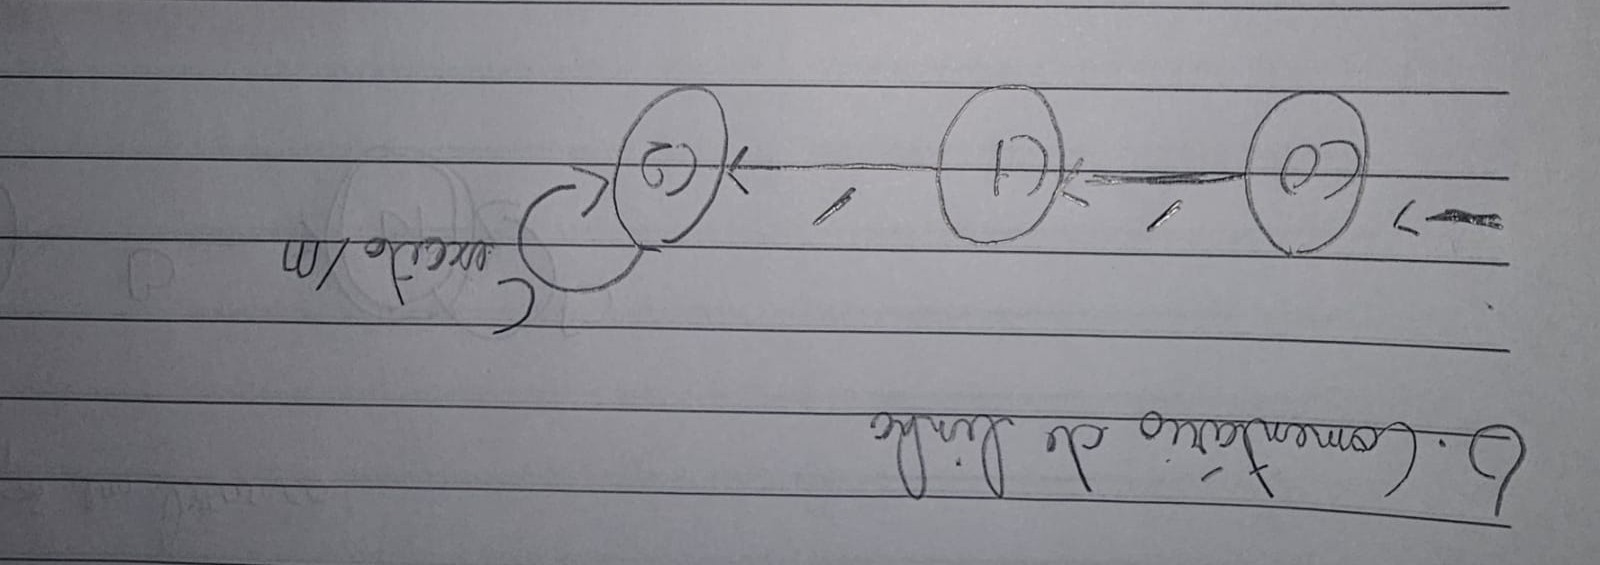
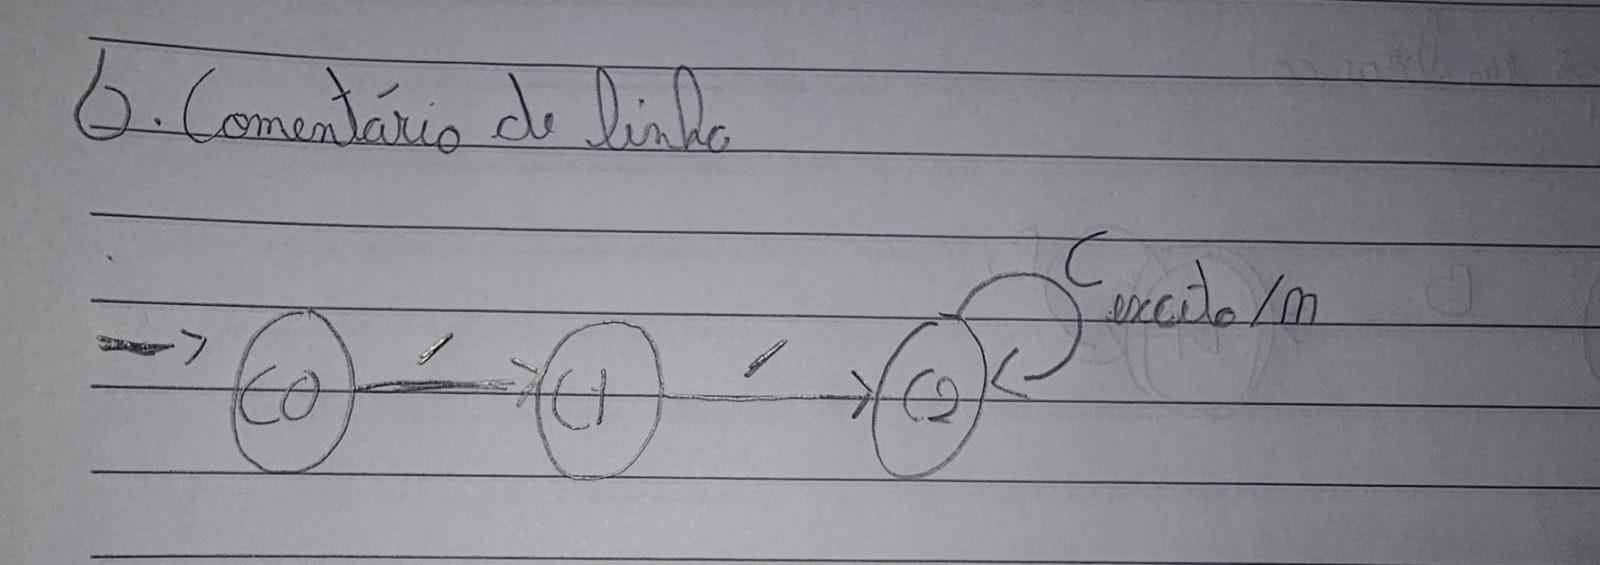
correção de imagem

diff --git a/README.md b/README.md
@@ -77,12 +77,6 @@ novo, só entradas no dicionário `PALAVRAS`).
 
 **3 estados**: dois para confirmar as duas barras, um para o loop até a quebra de linha.
 
-## 7. Nível que deu mais trabalho
-
-*(preencher com sua experiência: qual nível te travou mais rodando o `testar.py`
-e o que estava errado na primeira tentativa — ex.: marcar `r1`/`r2` como final
-no nível 4, ou deixar `a1`/`p1` com self-loop no nível 2.)*
-
 ## 8. Resumo de estados por autômato
 
 | Token | Nº de estados | Observação |

diff --git a/relatorio.md b/relatorio.md
@@ -77,12 +77,6 @@ novo, só entradas no dicionário `PALAVRAS`).
 
 **3 estados**: dois para confirmar as duas barras, um para o loop até a quebra de linha.
 
-## 7. Nível que deu mais trabalho
-
-*(preencher com sua experiência: qual nível te travou mais rodando o `testar.py`
-e o que estava errado na primeira tentativa — ex.: marcar `r1`/`r2` como final
-no nível 4, ou deixar `a1`/`p1` com self-loop no nível 2.)*
-
 ## 8. Resumo de estados por autômato
 
 | Token | Nº de estados | Observação |
